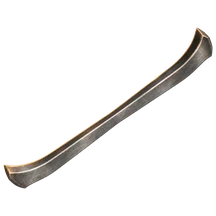
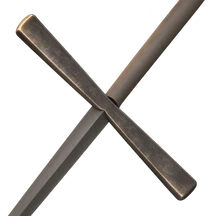
New guard cards: each cross shown on its sword
Every guard card is repainted from our own model, the cross with a short
length of grip and blade around it so its shape and ends read at card size,
and each with the ends that style really has.

Changed region(s): [[0.0, 0.0, 1.0, 1.0]]

diff --git a/src/components/forge/choices.tsx b/src/components/forge/choices.tsx
@@ -81,7 +81,7 @@ export function useStationChoices(station: StationId | null): StationChoices | n
       if (cur !== 'none') extraNote = `${extraNote} ${WIRE_INLAYS.find((w) => w.id === cur)?.note ?? ''}`.trim();
     }
     engraving('guard', !!config.guard.engraved);
-    cards = GUARDS.filter((g) => GUARDS_BY_TYPE[arch].includes(g.id)).sort((a, b) => GUARDS_BY_TYPE[arch].indexOf(a.id) - GUARDS_BY_TYPE[arch].indexOf(b.id)).map((g) => ({ ...g, period: ofForm(g, form?.guard), off: off(g, form?.guard), selected: config.guard.style === g.id, art: <PartArt name={`guard-${arch}-${g.id}`} />, apply: () => update('guard', { style: g.id }) }));
+    cards = GUARDS.filter((g) => GUARDS_BY_TYPE[arch].includes(g.id)).sort((a, b) => GUARDS_BY_TYPE[arch].indexOf(a.id) - GUARDS_BY_TYPE[arch].indexOf(b.id)).map((g) => ({ ...g, period: ofForm(g, form?.guard), off: off(g, form?.guard), selected: config.guard.style === g.id, art: <PartArt name={`guard-${arch}-${g.id}`} bleed />, apply: () => update('guard', { style: g.id }) }));
   }
   if (station === 'pommel' && config.grip.hilt === 'messer') {
     // A Messer has a cap over the grip's end instead of a pommel.
